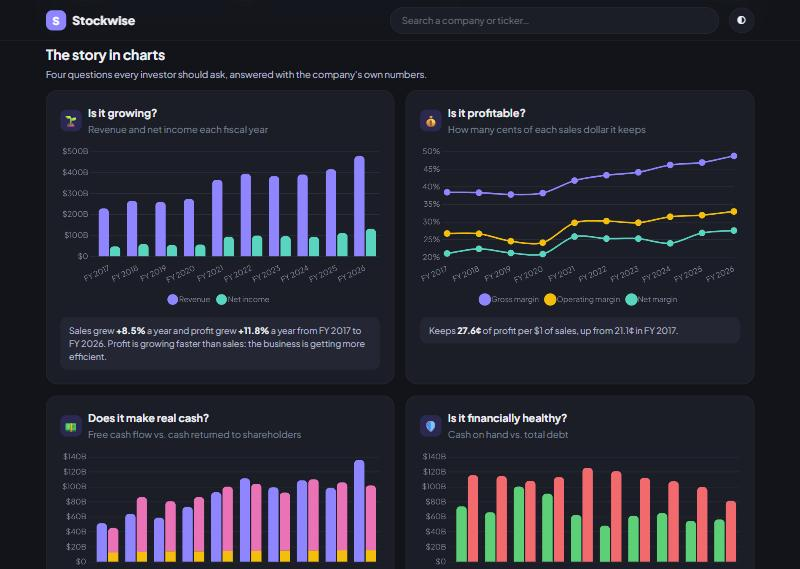
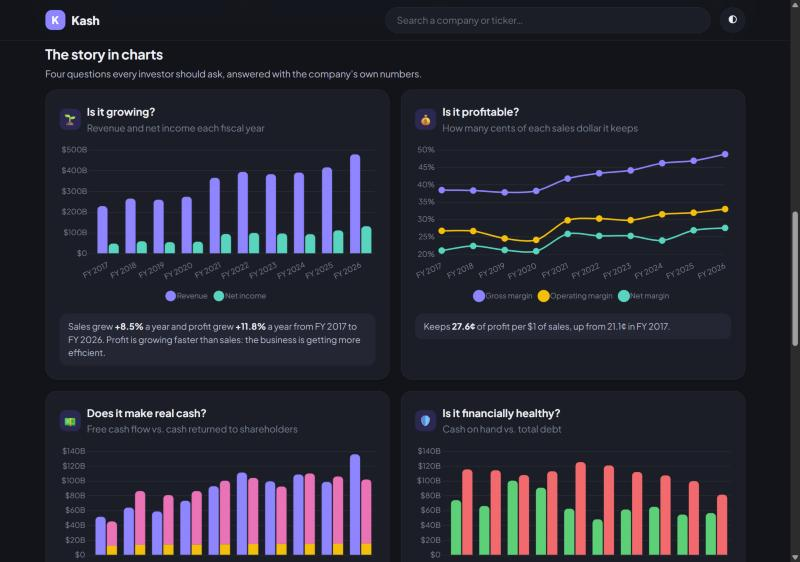
Rename the app to Kash
New name in the page title, logo, launcher (start-kash.bat), README screenshots and docs.

diff --git a/static/app.js b/static/app.js
@@ -1,4 +1,4 @@
-/* Stockwise frontend: plain JS + Chart.js. */
+/* Kash frontend: plain JS + Chart.js. */
 const $ = (s, el = document) => el.querySelector(s);
 const app = $("#app");
 const state = { data: null, tab: "overview", stmt: "income", period: "annual", range: "1Y", charts: [] };
@@ -119,7 +119,7 @@ const POPULAR = [["AAPL", "Apple"], ["MSFT", "Microsoft"], ["NVDA", "Nvidia"], [
 function renderHome() {
   destroyCharts();
   state.data = null;
-  document.title = "Stockwise";
+  document.title = "Kash";
   app.innerHTML = `
     <div class="hero">
       <h1>Understand any stock<br><em>in plain English.</em></h1>
@@ -159,7 +159,7 @@ function renderStock() {
   destroyCharts();
   const d = state.data, i = d.info;
   CUR = i.financialCurrency || i.currency || "USD";
-  document.title = `${d.ticker} · ${i.shortName || i.longName || ""} · Stockwise`;
+  document.title = `${d.ticker} · ${i.shortName || i.longName || ""} · Kash`;
   const chg = i.regularMarketChange, chgp = i.regularMarketChangePercent;
   const cls = chg >= 0 ? "up" : "down";
   const lo = i.fiftyTwoWeekLow, hi = i.fiftyTwoWeekHigh, px = i.currentPrice;

diff --git a/static/index.html b/static/index.html
@@ -3,7 +3,7 @@
 <head>
   <meta charset="utf-8">
   <meta name="viewport" content="width=device-width, initial-scale=1">
-  <title>Stockwise</title>
+  <title>Kash</title>
   <link rel="preconnect" href="https://fonts.googleapis.com">
   <link rel="preconnect" href="https://fonts.gstatic.com" crossorigin>
   <link href="https://fonts.googleapis.com/css2?family=Plus+Jakarta+Sans:wght@400;500;600;700;800&display=swap" rel="stylesheet">
@@ -14,7 +14,7 @@
   <header class="topbar">
     <div class="wrap topbar-inner">
       <a href="/" class="brand" data-link>
-        <span class="brand-mark">S</span><span>Stockwise</span>
+        <span class="brand-mark">K</span><span>Kash</span>
       </a>
       <div class="search" id="search">
         <input id="q" type="search" placeholder="Search a company or ticker…" autocomplete="off" spellcheck="false">

diff --git a/README.md b/README.md
@@ -1,4 +1,4 @@
-# Stockwise
+# Kash
 
 A friendly stock analysis tool. It shows full financial statements (income statement, balance sheet,
 cash flow and ratios, annual and quarterly, with TTM) with a plain-English explanation on every line,
@@ -21,11 +21,11 @@ and is the price right?
 - **Split-consistent history**: SEC share counts and EPS are restated to today's share basis, so P/E and
   per-share history stay correct across stock splits.
 - **Hover explanations** on every statement line and ratio, sparklines for each row, and CSV export.
-- Price chart from 1 month to the full listing history, P/E history, analyst targets, and dark mode.
+- Price chart from 1 day (with pre-market and after-hours trading) to the full listing history, P/E history, analyst targets, and dark mode.
 
 ## Run
 
-On Windows, double-click `start-stockwise.bat`. It sets up the environment on first run, starts the
+On Windows, double-click `start-kash.bat`. It sets up the environment on first run, starts the
 server and opens http://localhost:8050. Close its window to stop. Or manually:
 
 ```bash
@@ -76,7 +76,7 @@ historical P/E is in a sensible range.
 
 ## Disclaimer
 
-Stockwise is a personal learning project. The data may be delayed, incomplete or wrong, and the scorecard
+Kash is a personal learning project. The data may be delayed, incomplete or wrong, and the scorecard
 is a set of simple rules of thumb. **Nothing here is investment advice.** Do your own research before
 making any investment decision.
 

diff --git a/CLAUDE.md b/CLAUDE.md
@@ -1,12 +1,12 @@
-# Stockwise: notes for Claude
+# Kash: notes for Claude
 
 Friendly stock analysis web app: FastAPI backend (`app.py`, `sec.py`, `rows.py`) and a vanilla JS
-single-page frontend (`static/`). Public repo: github.com/nkanter04/stockwise. See README.md for features.
+single-page frontend (`static/`). Public repo: github.com/nkanter04/kash. See README.md for features.
 
 ## Run and test
 
-- Server: `.venv/Scripts/python -m uvicorn app:app --port 8050 --reload` (or `start-stockwise.bat`, or the
-  `stockwise` entry in `.claude/launch.json`). `--reload` restarts on .py changes; static files are served
+- Server: `.venv/Scripts/python -m uvicorn app:app --port 8050 --reload` (or `start-kash.bat`, or the
+  `kash` entry in `.claude/launch.json`). `--reload` restarts on .py changes; static files are served
   fresh, so a browser refresh is enough for frontend edits.
 - Tests: `.venv/Scripts/python -m pytest` runs everything (~20 s).
   `-m "not network"` runs only the offline unit tests (~5 s); `-m network` runs only the live-data checks.
